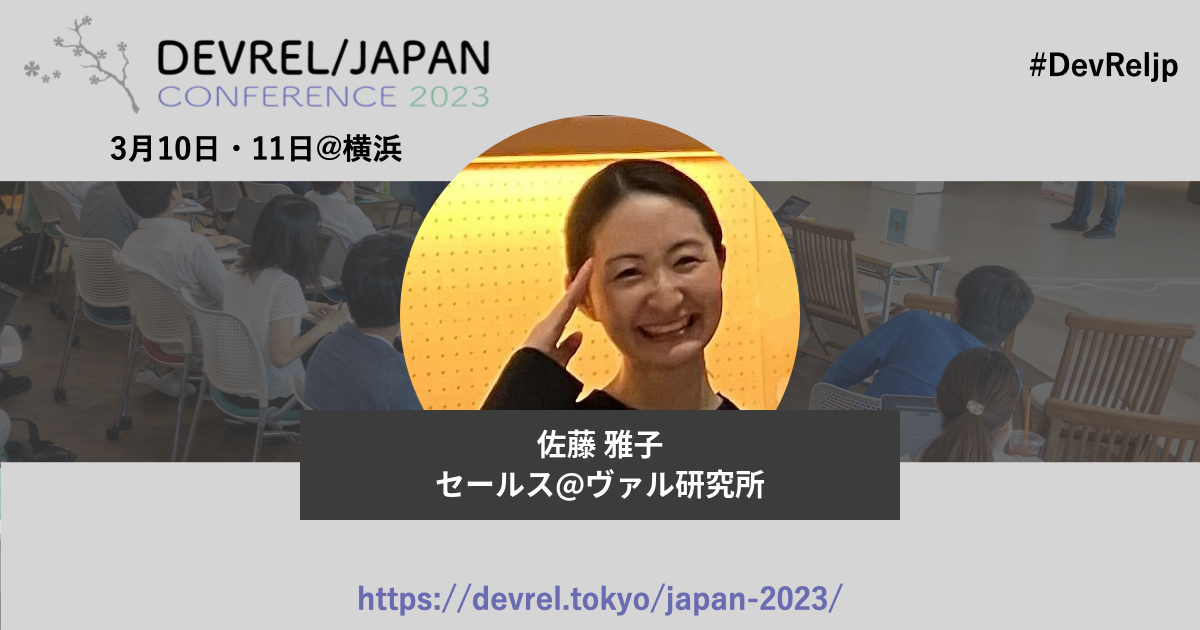
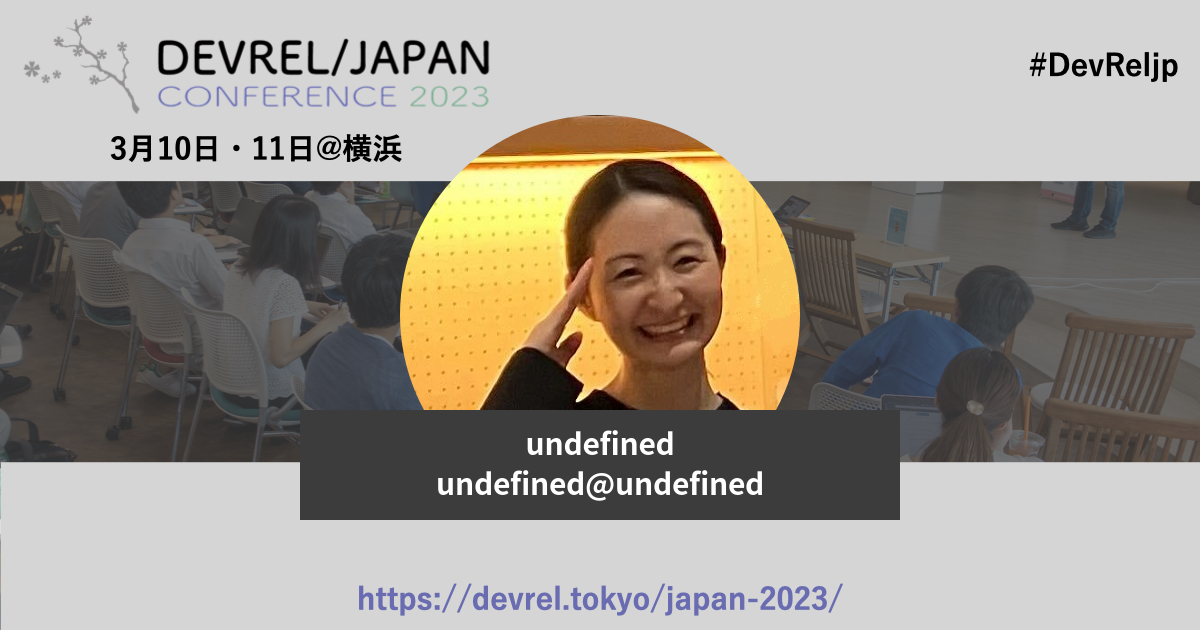
auto update

Changed region(s): [[0.3392, 0.6635, 0.6475, 0.8143]]

diff --git a/organizers/canonno.md b/organizers/canonno.md
@@ -1,7 +1,7 @@
 ---
 layout: person
 permalink: /organizers/canonno/
-title: 賀野 壮一朗@Suntory Holdings Limited
+title: @
 ogp: /japan-2023/image/ogp/canonno.jpg
 type: organizer
 id: canonno

diff --git a/organizers/keiichiro.md b/organizers/keiichiro.md
@@ -1,7 +1,7 @@
 ---
 layout: person
 permalink: /organizers/keiichiro/
-title: 野崎 馨一郎@Atlassian
+title: @
 ogp: /japan-2023/image/ogp/keiichiro.jpg
 type: organizer
 id: keiichiro

diff --git a/organizers/sakutaro.md b/organizers/sakutaro.md
@@ -1,7 +1,7 @@
 ---
 layout: person
 permalink: /organizers/sakutaro/
-title: 櫻井 文矢@CARTA HOLDINGS
+title: @
 ogp: /japan-2023/image/ogp/sakutaro.jpg
 type: organizer
 id: sakutaro

diff --git a/organizers/msato.md b/organizers/msato.md
@@ -1,7 +1,7 @@
 ---
 layout: person
 permalink: /organizers/msato/
-title: 佐藤 雅子@ヴァル研究所
+title: @
 ogp: /japan-2023/image/ogp/msato.jpg
 type: organizer
 id: msato

diff --git a/organizers/shotaro.md b/organizers/shotaro.md
@@ -1,7 +1,7 @@
 ---
 layout: person
 permalink: /organizers/shotaro/
-title: 鈴木 章太郎@Elastic
+title: @
 ogp: /japan-2023/image/ogp/shotaro.jpg
 type: organizer
 id: shotaro

diff --git a/organizers/yasunori.md b/organizers/yasunori.md
@@ -1,7 +1,7 @@
 ---
 layout: person
 permalink: /organizers/yasunori/
-title: 木原 康智@Minitt
+title: @
 ogp: /japan-2023/image/ogp/yasunori.jpg
 type: organizer
 id: yasunori

diff --git a/organizers/odasho.md b/organizers/odasho.md
@@ -1,7 +1,7 @@
 ---
 layout: person
 permalink: /organizers/odasho/
-title: おだしょー@mabl Inc.
+title: @
 ogp: /japan-2023/image/ogp/odasho.jpg
 type: organizer
 id: odasho

diff --git a/organizers/tarotaro.md b/organizers/tarotaro.md
@@ -1,7 +1,7 @@
 ---
 layout: person
 permalink: /organizers/tarotaro/
-title: 川下 太郎@Sony
+title: @
 ogp: /japan-2023/image/ogp/tarotaro.jpg
 type: organizer
 id: tarotaro

diff --git a/organizers/journeyman.md b/organizers/journeyman.md
@@ -1,7 +1,7 @@
 ---
 layout: person
 permalink: /organizers/journeyman/
-title: ジャニ@
+title: @
 ogp: /japan-2023/image/ogp/journeyman.jpg
 type: organizer
 id: journeyman

diff --git a/organizers/atsushi.md b/organizers/atsushi.md
@@ -1,7 +1,7 @@
 ---
 layout: person
 permalink: /organizers/atsushi/
-title: アツシ@MOONGIFT
+title: @
 ogp: /japan-2023/image/ogp/atsushi.jpg
 type: organizer
 id: atsushi

diff --git a/organizers/kazumi.md b/organizers/kazumi.md
@@ -1,7 +1,7 @@
 ---
 layout: person
 permalink: /organizers/kazumi/
-title: 岩永 かづみ@
+title: @
 ogp: /japan-2023/image/ogp/kazumi.jpg
 type: organizer
 id: kazumi

diff --git a/organizers/nori.md b/organizers/nori.md
@@ -1,7 +1,7 @@
 ---
 layout: person
 permalink: /organizers/nori/
-title: 鈴木 教之@Microsoft
+title: @
 ogp: /japan-2023/image/ogp/nori.jpg
 type: organizer
 id: nori
